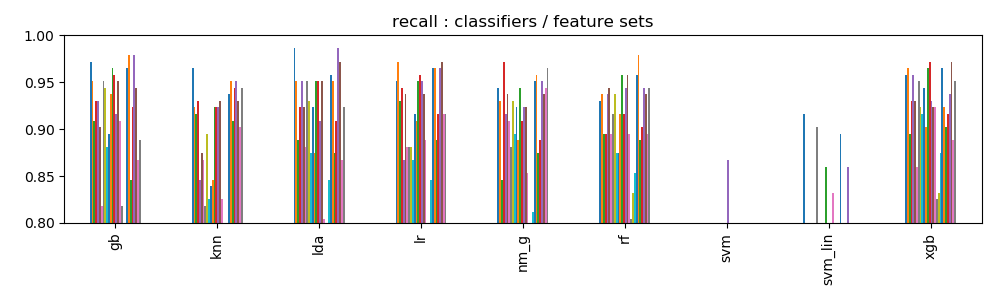
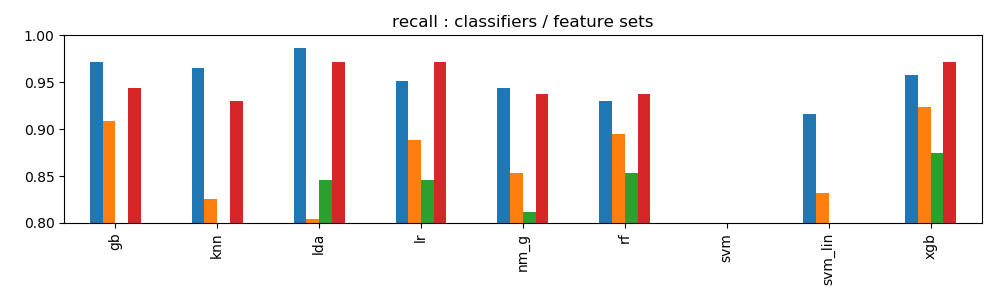
Analyse abgeschlossen

diff --git a/wwa-bc/py/clf_analyse.py b/wwa-bc/py/clf_analyse.py
@@ -50,22 +50,29 @@ def df_filter(df: pd.DataFrame, clfs, fs):
     df_tmp = df.loc[df['clf'].isin(clfs)]
     return df_tmp.loc[df_tmp['features'].isin(fs)]
 
+def df_filter_clf(df: pd.DataFrame, clfs):
+    return df.loc[df['clf'].isin(clfs)]
 
-_data = pd.read_csv('../tmp/result.csv', header=0)
+def df_filter_fs(df: pd.DataFrame, fs):
+    return df.loc[df['features'].isin(fs)]
+
+
+fs_rel = ["worst_most_rel", "all", "se_all", "se_two_rel"]
 
 clf_rel = ["lr", "lda", "nm_g", "xgb", "gb"]
 
-fs_rel = ["worst_all", "worst_most_rel", "all", "all_most_rel"]
+fs_rel1 = ["worst_most_rel", "all"]
 
-clf_rel1 = ["gb", "xgb"]
+clf_rel1 = ["lda", "xgb"]
 
-fs_rel1 = ["worst_all", "worst_most_rel", "all", "all_most_rel"]
+_data = pd.read_csv('../tmp/result.csv', header=0)
 
-_data2 = df_filter(_data, clf_rel, fs_rel)
+_data1 = df_filter_fs(_data, fs_rel)
+_data2 = df_filter(_data, clf_rel, fs_rel1)
 _data3 = df_filter(_data, clf_rel1, fs_rel1)
 
-bar(_data)
-bar(_data2)
+bar(_data1)
+bar(_data2, legend=True, is_fs=False)
 bar(_data3, legend=True, is_fs=False)
 bar(_data3, legend=True, values="precission", is_fs=False)
 bar(_data3, legend=True, values="f1", is_fs=False)

diff --git a/wwa-bc/README.md b/wwa-bc/README.md
@@ -99,16 +99,58 @@ Weiters scheint ein Zusammenhang zwischen compactness und concavity zu bestehen.
 * rsquared macht wenig Sinn für Classification Problem
 #### Linear Regression
 Macht wenig Sinn
-#### Logistic Regression
-Verwendete Technologie: sklearn.linear_model.LogisticRegression
+#### Vergleich Classifiers
 
+Verwendete Technologie: sklearn, xgboost
 
-#### LDA
-#### SVM
-#### knn
-#### Naive Bayes
-#### Random Forrest
-#### XGBoost
+Classifier: 
+* LDA 
+* SVM
+* knn
+* Naive Bayes (nm_g)
+* Random Forrest (rf)
+* XGBoost (xgb, gb)
+
+Die Classifier wurden gegen eine Auswahl von Features (Feature Sets) getestet. 
+* all: Alle 
+* se_all: Alle der Gruppe Standard Error (se)
+* se_two_rel: Aus der Gruppe se zwei Relevante (radius, concavity) 
+* worst_most_relevant: Aus der Gruppe worst alle Relevanten (radius, texture, compactness, concavity, concave_points) 
+
+Zur Auswahl des Classifiers wurde die Metrik 'recall' verwendet.
+
+![](images/all_fs.png)
+
+Der Vergleich der Feature Sets zeigt die besten Recall-Werte für 'all' und 'worst_most_rel'. 
+Diese beiden Feature-Sets zeigen etwa gleiche Performance, obwohl si sich stark in der Anzahl der Features 
+unterscheiden.
+
+![](images/all_clf.png)
+
+Der vergleich der Classifier zeigt ähnliches Verhalten für alle Classifier ausser SVM.
+
+![](images/best_clf.png)
+
+Der Vergleich der besten Classifier mit den wirkungsvollsten Feature-Sets zeigt annähernd gleiche Performane. xgb, gb 
+und lda sind den übrigen leicht überlegen.
+
+Eine genauere Analyse mit einer Optimierung diverser Metaparameter sollte für diese drei Classifier durchgeführt werden.
+
+Falls möglich sollte die Anzahl der Trainingsdaten erhöht werden. 
+
+#### Vergleich der Metriken
+
+Verwendete Metriken
+* recall
+* precission
+* f1
+
+![](images/me_recall.png)
+![](images/me_prec.png)
+![](images/me_f1.png)
+
+Der Vergleich der Metriken zeigt annähernd gleiche Werte für alle Metriken. 
+
 
 ## Install XGBoost
  
